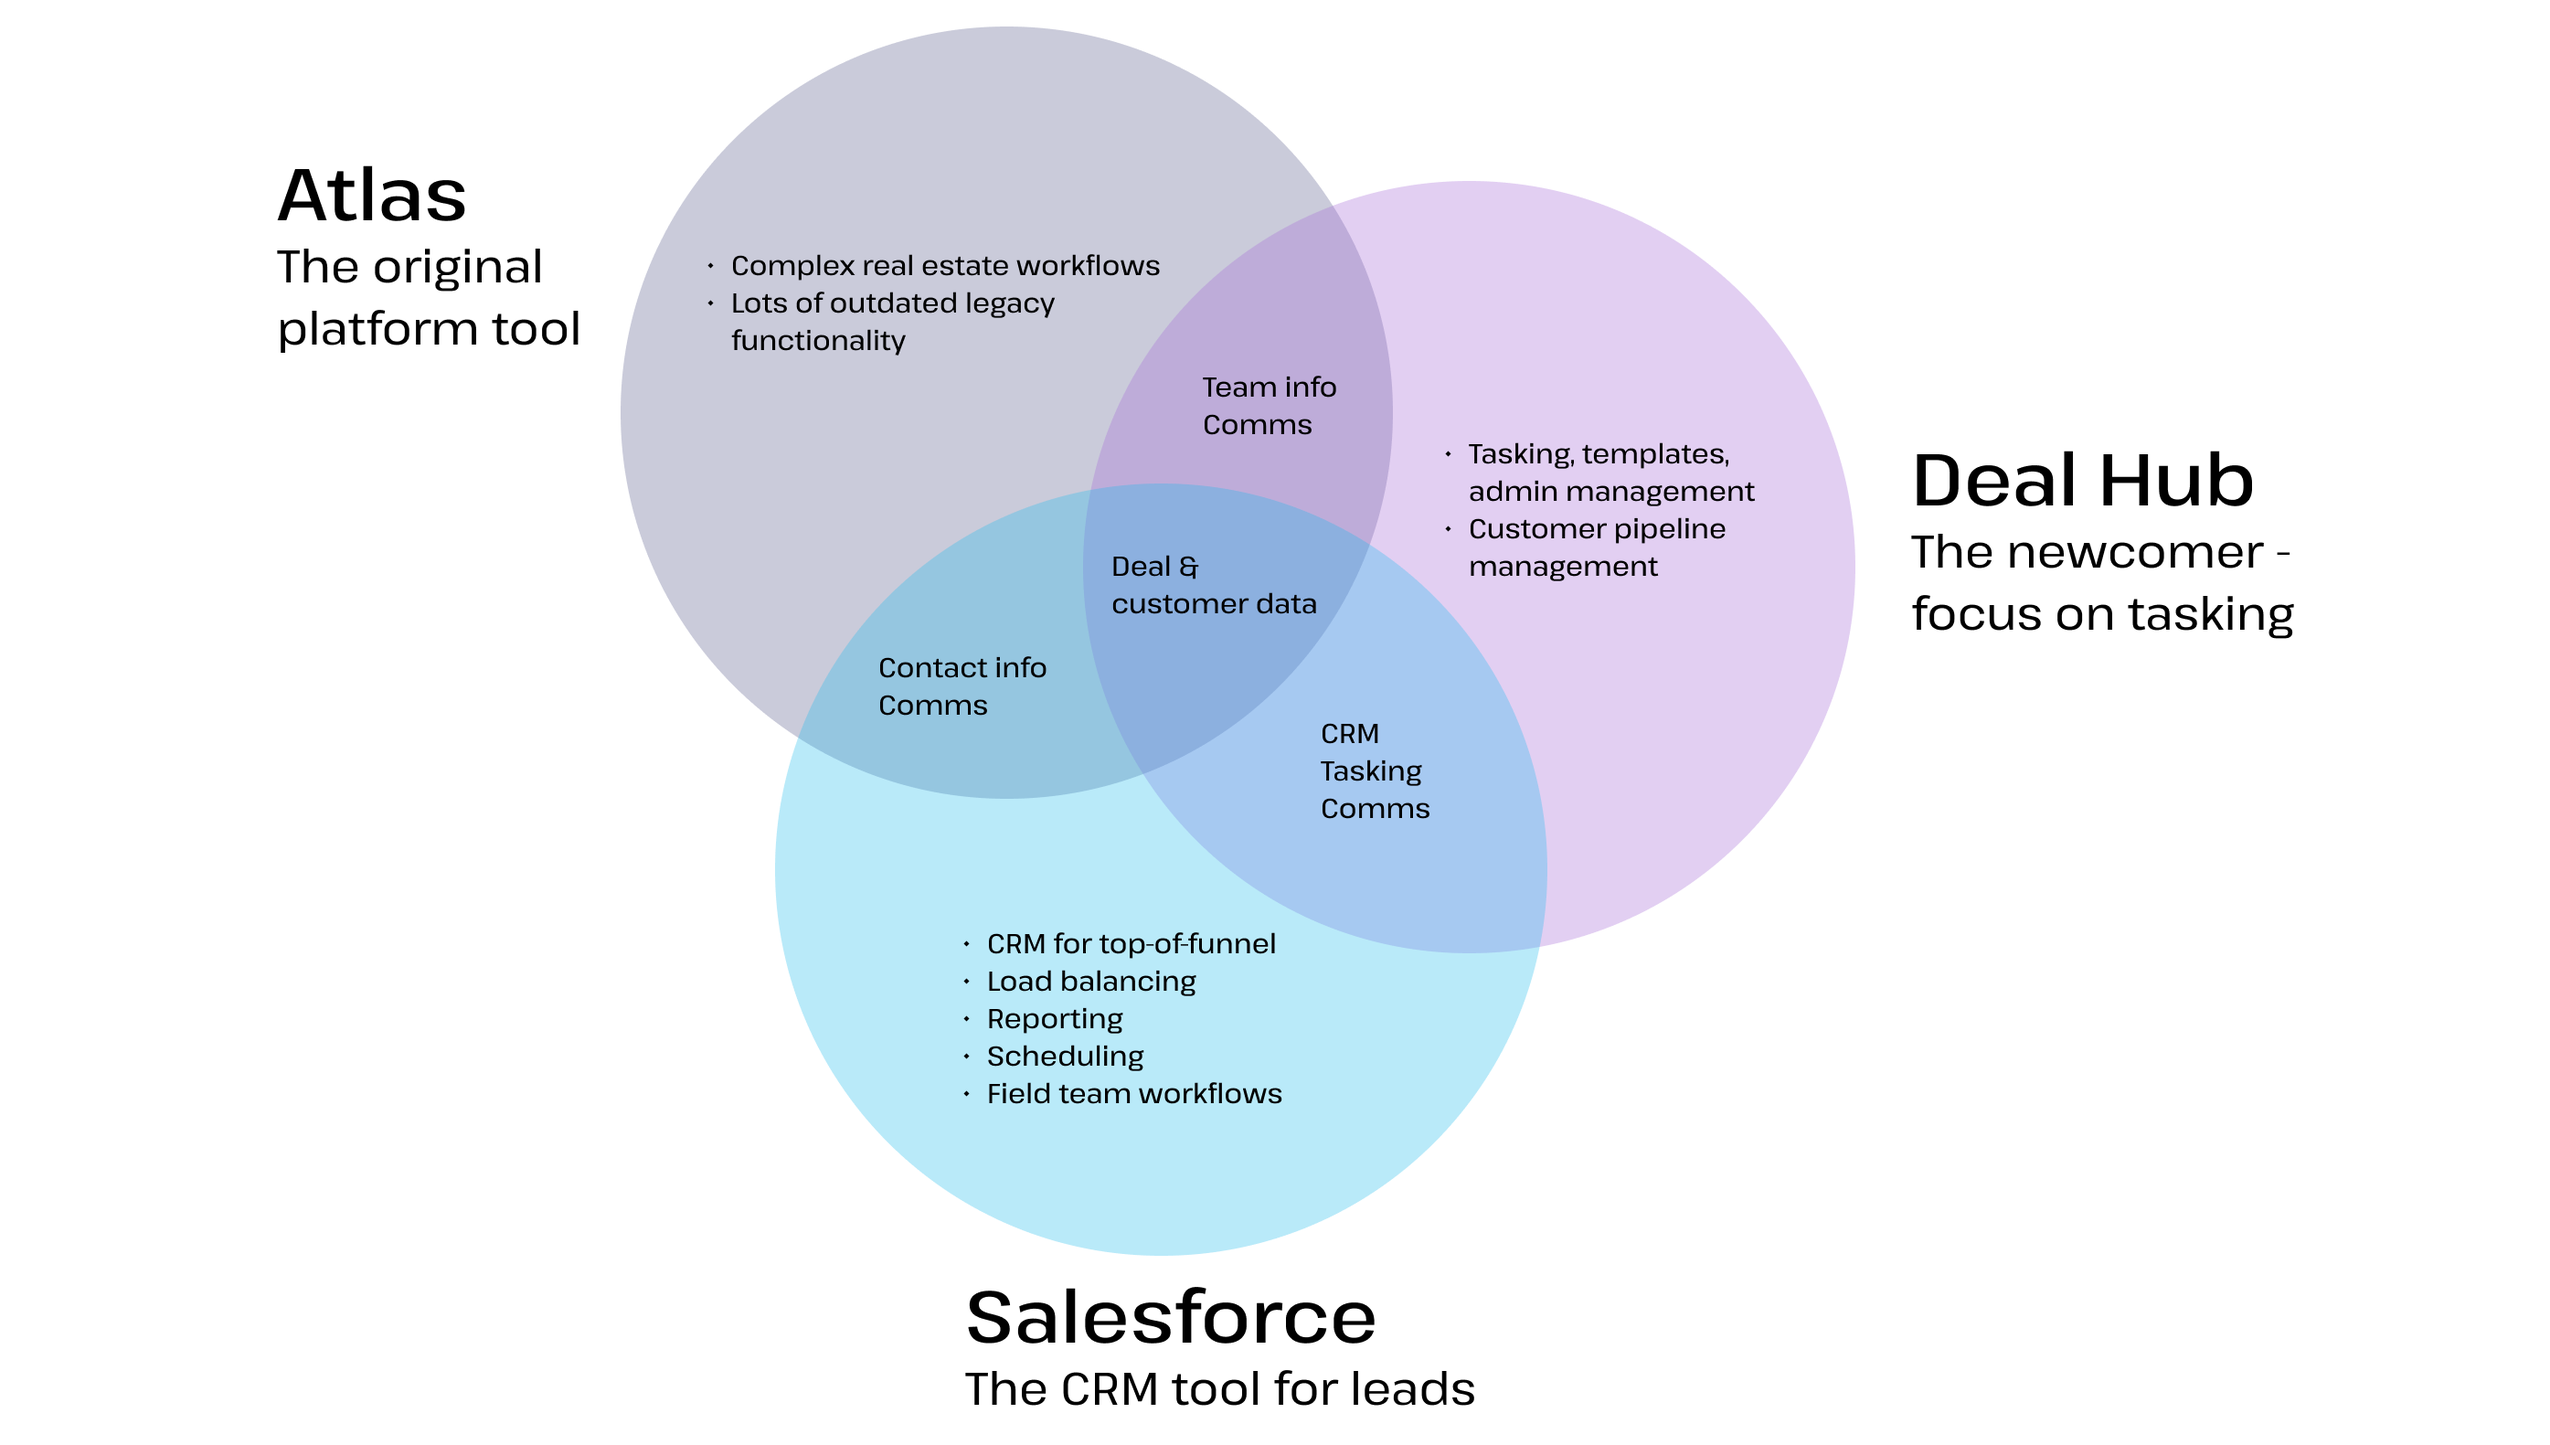
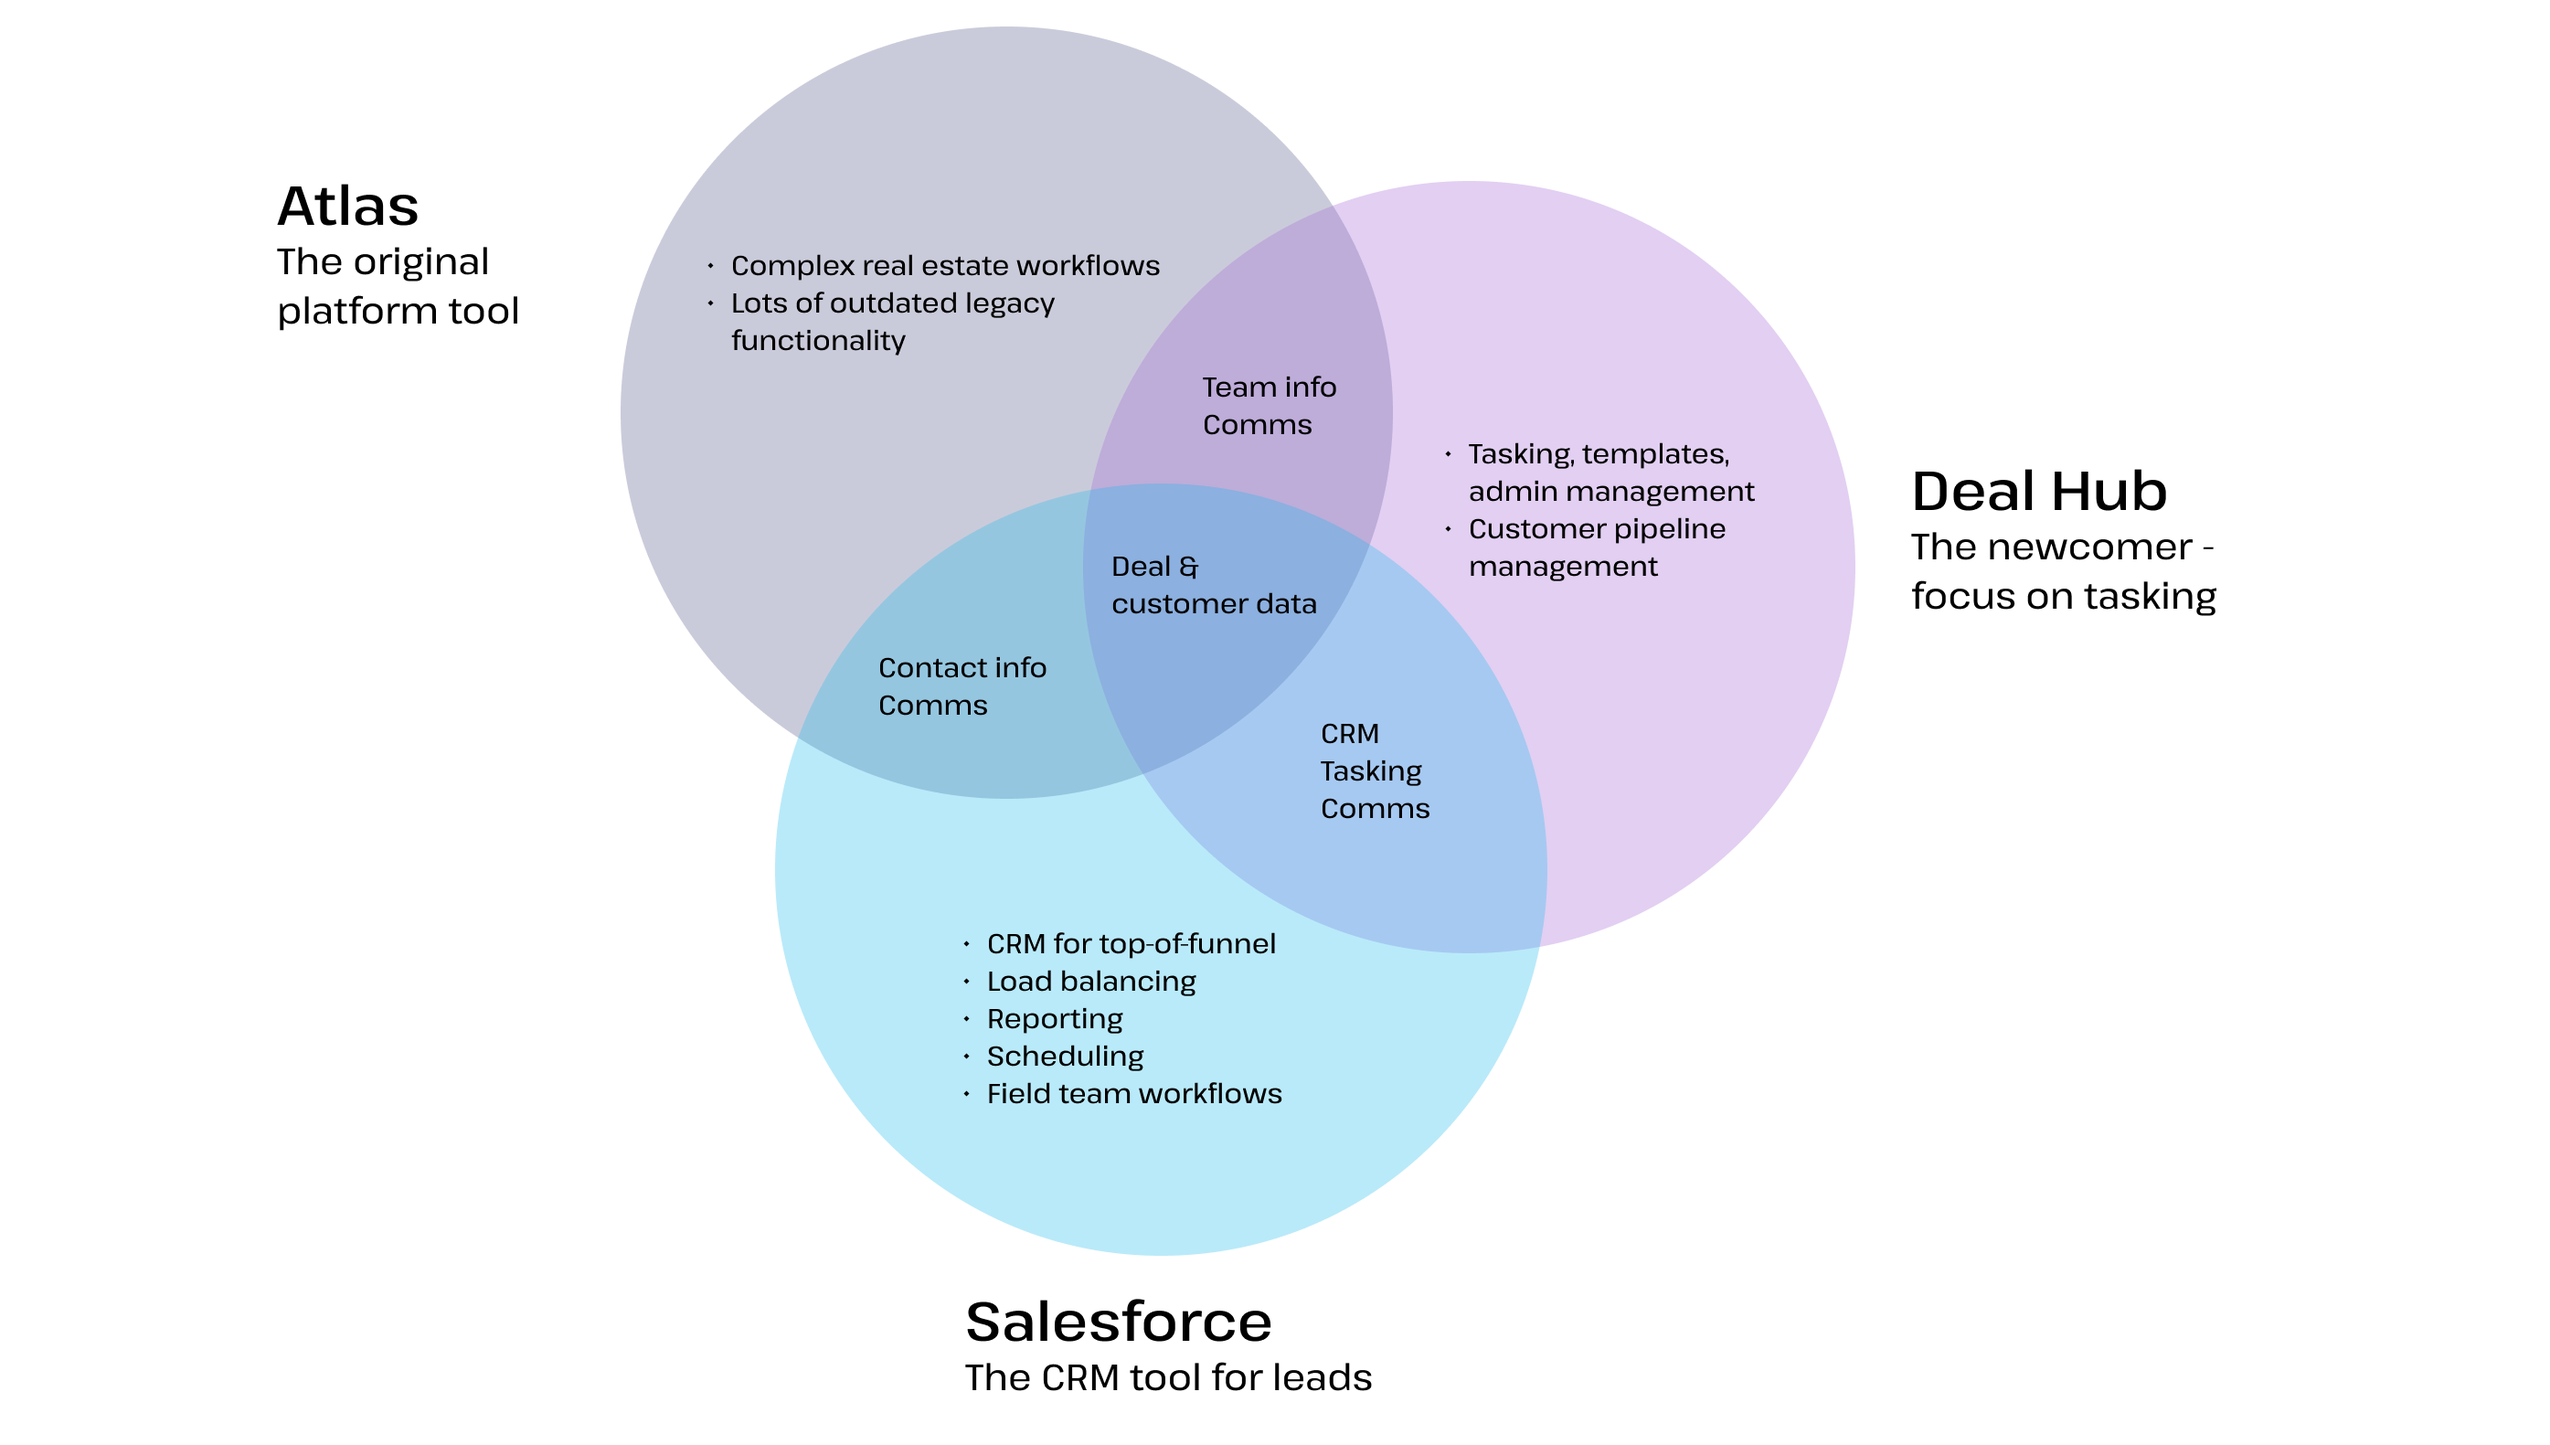
updated vision

Changed region(s): [[0.7484, 0.3099, 0.9043, 0.4339], [0.3742, 0.8988, 0.5613, 0.9918], [0.0935, 0.124, 0.2183, 0.2479]]

diff --git a/orchard-roadmap.html b/orchard-roadmap.html
@@ -108,10 +108,12 @@
 					It was clear we needed to unify the platform tools into one singular experience (or at least what felt like one singular experience).
 				</p>
 
+				<div class="space"></div><div class="space"></div>
 
 				<div class="full-width-mid-page">
 					<div class="panel dark" style="text-align: center; background-color: var(--white)">
-						<img class="pic-left" src="pics/orchard-vision/overlap.png">
+						<h2 style="color: black">Overlap in tools</h2>
+						<img class="pic-left" src="pics/orchard-vision/overlap.png" style="padding-top: 1%">
 					</div>
 				</div>
 
